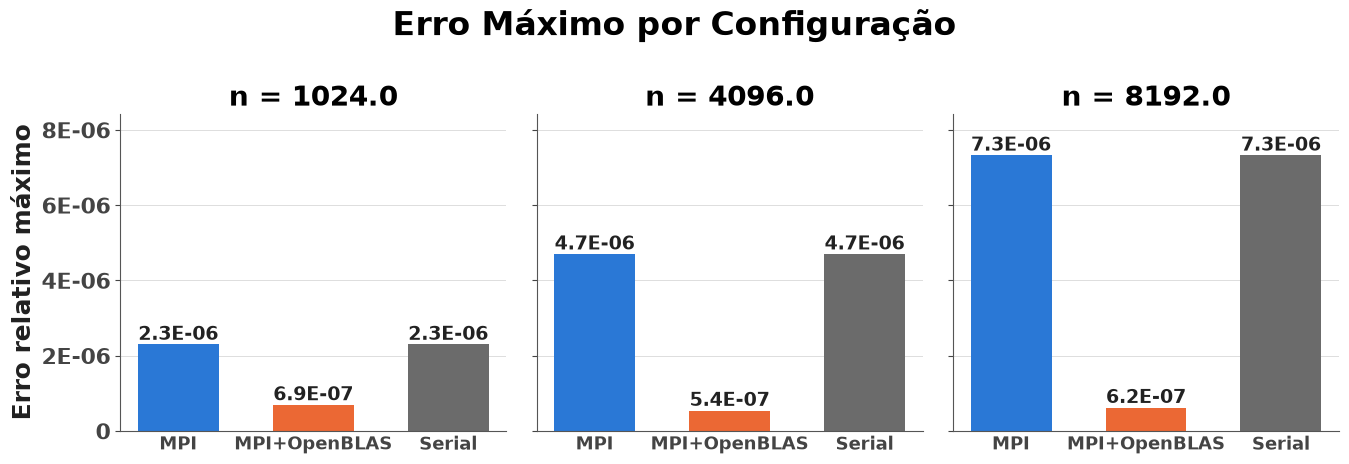
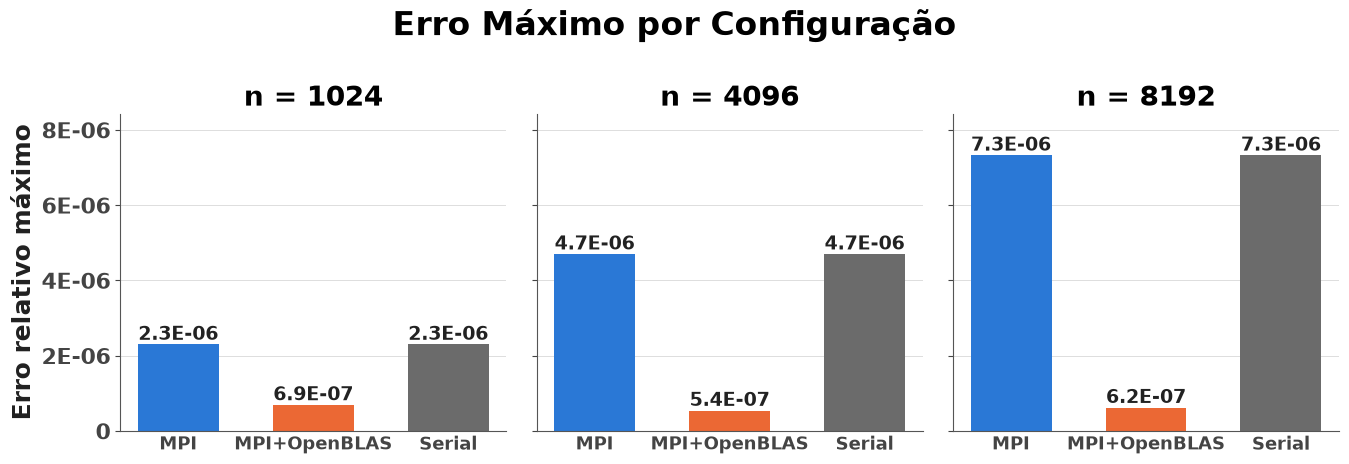
fix: Cast integer columns when loading the CSV
Log lines from the cluster ("Attaching ... to ...") were mixed into
results.csv, turning those rows into NaN and making pandas read procs,
threads, N and tile as floats. The graphs then showed tile sizes, ranks,
threads and problem sizes as floats. Drop the invalid rows and cast the
integer columns back to int64.

docs: Added section explaining how to generate the graphs

Changed region(s): [[0.7784, 0.181, 0.934, 0.2414], [0.467, 0.181, 0.6227, 0.2414], [0.1557, 0.181, 0.3113, 0.2414]]

diff --git a/scripts/generate_graphs.py b/scripts/generate_graphs.py
@@ -26,6 +26,13 @@ INK = "#222222"
 
 def load_data(path):
     df = pd.read_csv(path)
+
+    # O CSV pode conter linhas de log do cluster (ex.: "Attaching ..."), que
+    # viram NaN e fazem o pandas ler as colunas inteiras como float.
+    df = df.dropna().reset_index(drop=True)
+    ints = ["procs", "threads", "N", "tile", "time_ns", "verify"]
+    df[ints] = df[ints].astype("int64")
+
     versions = set(df["version"])
     for version in ["serial", *PARALLEL]:
         if version not in versions:

diff --git a/README.md b/README.md
@@ -43,3 +43,29 @@ mpirun -np 8 ./build/mmmb 2000 -t 32 -v
 Where `2000` is the dimension of the matrix, the `-t` is the flag that specify the tile size (default 64). One last flag that is not showing in there is the flag `-o` that is used to store the matrix as a CSV file.
 
 **Obs:** In the MPI executions the size of the matrix must be divisible by the the number of processes.
+
+## Generating the Graphs
+
+The graphs in `graphs/` are generated from the benchmark results (`paralela/results.csv`, written by `run.sh`) by `scripts/generate_graphs.py`. To run it, first create a virtual environment and install the requirements:
+
+```bash
+python3 -m venv .venv
+source .venv/bin/activate
+pip install -r requirements.txt
+```
+
+Then execute the script:
+
+```bash
+python scripts/generate_graphs.py
+```
+
+By default it reads `paralela/results.csv` and saves the PNG figures in `graphs/`. The options are:
+
+- `--csv`: path of the benchmark CSV;
+- `--out`: directory where the figures are saved;
+- `--format`: output format (`png`, `pdf` or `all`).
+
+```bash
+python scripts/generate_graphs.py --csv testes/results.csv --out graphs --format all
+```
